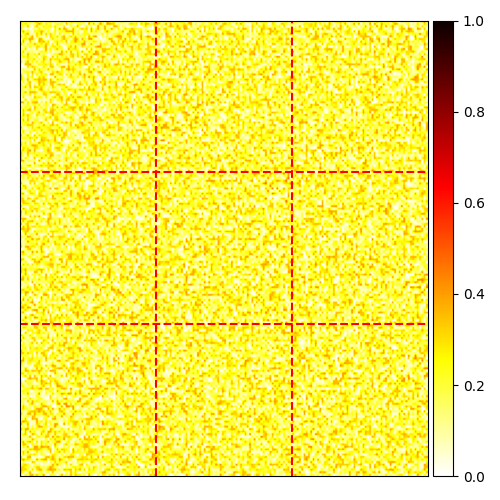
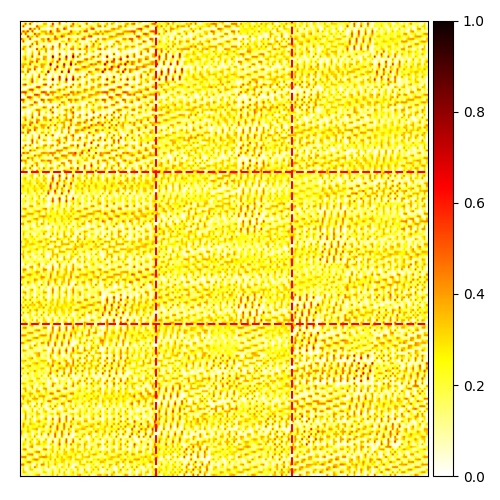
s

diff --git a/bindsnet/learning/learning.py b/bindsnet/learning/learning.py
@@ -196,24 +196,20 @@ class PostPre(LearningRule):
         Post-pre learning rule for ``LocalConnection`` subclass of
         ``AbstractConnection`` class.
         """
-
         # Get LC layer parameters.
-        padding, stride = self.connection.padding, self.connection.stride
+        stride = self.connection.stride
         batch_size = self.source.batch_size
-        kernel_height = self.connection.kernel_size[0]
-        kernel_width = self.connection.kernel_size[1]
+        kernel_width = self.connection.kernel_size[0]
+        kernel_height = self.connection.kernel_size[1]
         in_channels = self.connection.source.shape[0]
         out_channels = self.connection.n_filters
         width_out = self.connection.conv_size[0]
         height_out = self.connection.conv_size[1]
 
 
-        ## target_x (s) ch_o, w_o, h_o  
         target_x = self.target.x.reshape(batch_size, out_channels * width_out * height_out, 1) 
         target_x = target_x * torch.eye(out_channels * width_out * height_out).to(self.connection.w.device)
-        source_s = im2col_indices(self.source.s.type(torch.float), kernel_height, kernel_width, padding, stride)
-        
-        source_s = source_s.reshape(
+        source_s = self.source.s.type(torch.float).unfold(-2, kernel_width,stride[0]).unfold(-2, kernel_height, stride[1]).reshape(
             batch_size, 
             width_out * height_out,
             in_channels *  kernel_width *  kernel_height,
@@ -226,9 +222,7 @@ class PostPre(LearningRule):
 
         target_s = self.target.s.type(torch.float).reshape(batch_size, out_channels * width_out*height_out,1)
         target_s = target_s * torch.eye(out_channels * width_out * height_out).to(self.connection.w.device)
-        source_x = im2col_indices(self.source.x, kernel_height, kernel_width, padding, stride)
-        
-        source_x = source_x.reshape(
+        source_x = self.source.x.unfold(-2, kernel_width,stride[0]).unfold(-2, kernel_height, stride[1]).reshape(
             batch_size, 
             width_out * height_out,
             in_channels *  kernel_width *  kernel_height,
@@ -237,11 +231,7 @@ class PostPre(LearningRule):
             out_channels,
             1,
         ).to(self.connection.w.device)
-        # print('')
-        # print(target_x.shape, source_s.shape)
-        # print(target_s.shape, source_x.shape)
-        # print(torch.bmm(target_x,source_s).shape)
-        # print(self.reduction(torch.bmm(target_x,source_s), dim=0).shape)
+
         # Pre-synaptic update.
         if self.nu[0]:
             pre = self.reduction(torch.bmm(target_x,source_s), dim=0)

diff --git a/bindsnet/network/topology.py b/bindsnet/network/topology.py
@@ -452,15 +452,12 @@ class LocalConnection2D(AbstractConnection):
 
         super().__init__(source, target, nu, reduction, weight_decay, **kwargs)
 
-        padding = kwargs.get('padding', 0)
         kernel_size = _pair(kernel_size)
         stride = _pair(stride)
-        padding = _pair(padding)
 
         self.kernel_size = kernel_size
         self.stride = stride
         self.n_filters = n_filters
-        self.padding = padding
 
         self.in_channels, input_height, input_width = (
             source.shape[0],
@@ -469,10 +466,10 @@ class LocalConnection2D(AbstractConnection):
         )
 
         height = int((
-            input_height - self.kernel_size[0] + 2 * self.padding[0]
+            input_height - self.kernel_size[0]
         ) / self.stride[0]) + 1
         width = int((
-            input_width - self.kernel_size[1] + 2 * self.padding[1]
+            input_width - self.kernel_size[1]
         ) / self.stride[1]) + 1
 
 
@@ -522,8 +519,11 @@ class LocalConnection2D(AbstractConnection):
 
         batch_size = s.shape[0]
 
-        self.s_unfold = im2col_indices(s.float(), self.kernel_size[0], self.kernel_size[1], padding=self.padding, stride=self.stride)
-        self.s_unfold = self.s_unfold.reshape(
+        self.s_unfold = s.unfold(
+            -2,self.kernel_size[0],self.stride[0]
+        ).unfold(
+            -2,self.kernel_size[1],self.stride[1]
+        ).reshape(
             s.shape[0], 
             self.in_channels,
             self.conv_prod,
@@ -531,35 +531,12 @@ class LocalConnection2D(AbstractConnection):
         ).repeat(
             1,
             1,
-            self.n_filters,
+            self.out_channels,
             1,
         )
-
-        # self.s_unfold = s.unfold(
-        #     -2,self.kernel_size[0],self.stride[0]
-        # ).unfold(
-        #     -2,self.kernel_size[1],self.stride[1]
-        # ).reshape(
-        #     s.shape[0], 
-        #     self.in_channels,
-        #     self.conv_prod,
-        #     self.kernel_prod,
-        # ).repeat(
-        #     1,
-        #     1,
-        #     self.out_channels,
-        #     1,
-        # )
         
         a_post = self.s_unfold.to(self.w.device) * self.w
-        # print('w')
-        # print(self.w.shape)
-        # print('a post')
-        # print(a_post.shape)
-        # print('a post sum')
-        # print(a_post.sum(-1).shape)
-        # print('a post sum2')
-        # print(a_post.sum(-1).sum(1).shape)
+
         return a_post.sum(-1).sum(1).view(batch_size, *self.target.shape)
 
     def update(self, **kwargs) -> None:
